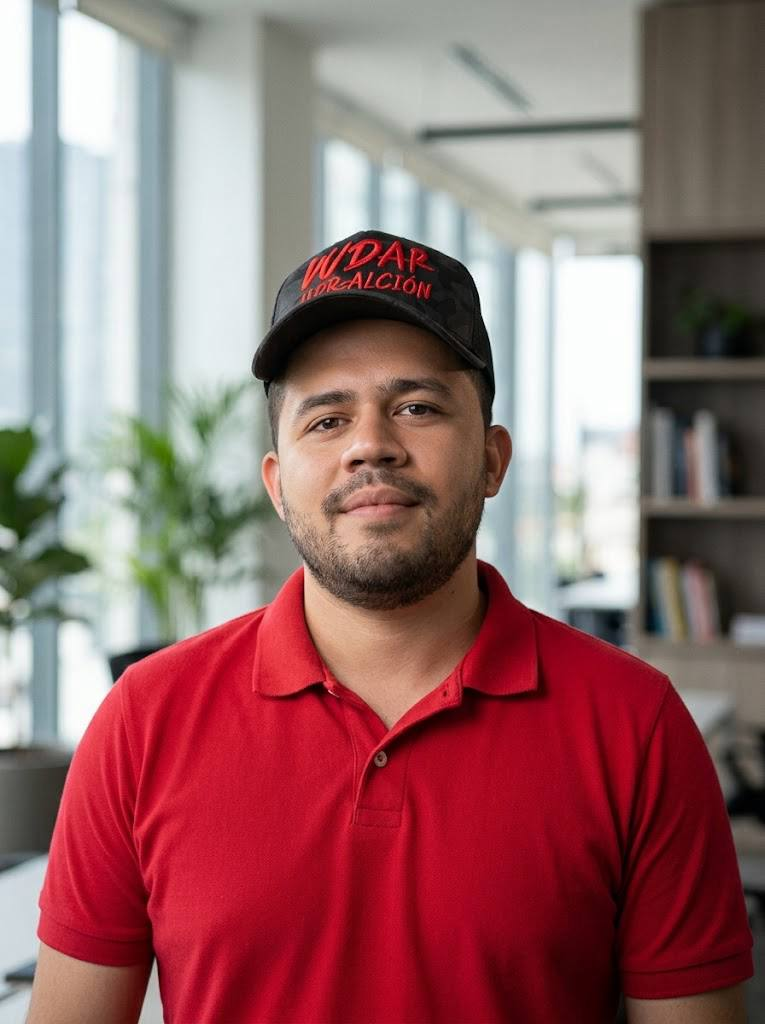
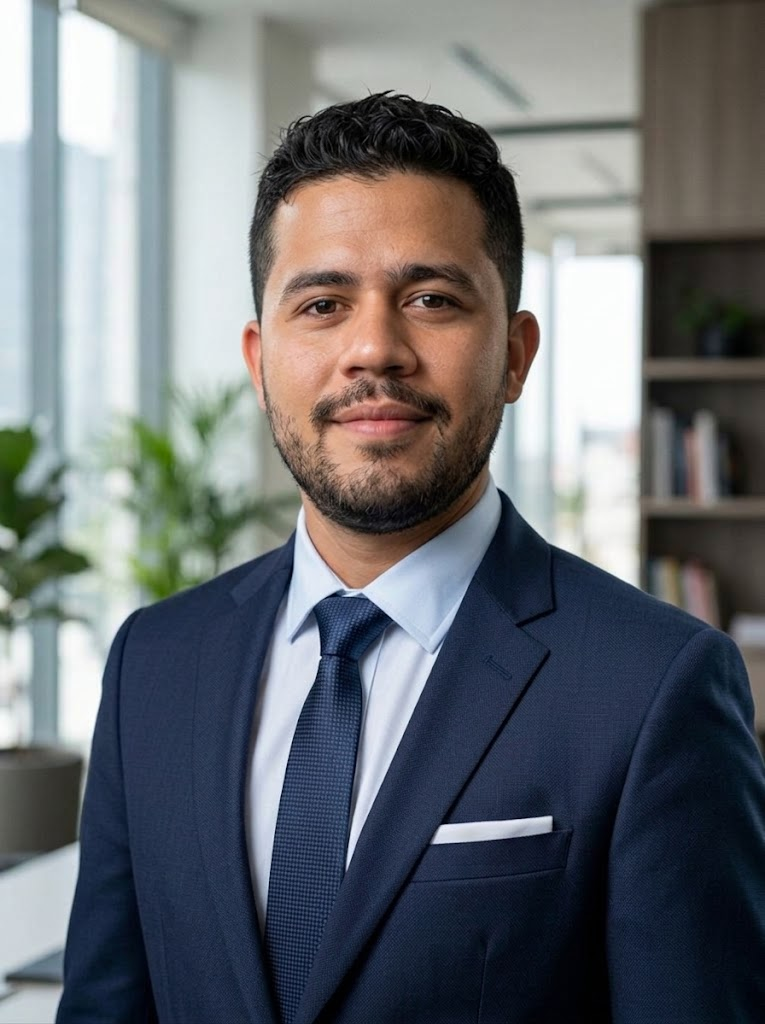
subida

diff --git a/index.html b/index.html
@@ -969,18 +969,18 @@
           <article class="founder-bento-card spotlight-card">
             <div class="founder-media">
               <img
-                src="assets/johnny-granado.png"
-                alt="Johnny Granado · Co-Founder & CEO de La Perla Host"
+                src="assets/galvys-rodriguez.jpeg"
+                alt="Galvys Rodriguez · Co-Founder & CEO de La Perla Host"
                 loading="lazy"
               />
-              <a href="https://www.linkedin.com/in/jhonny-granado-mago-2601a42a4/" target="_blank" rel="noopener noreferrer" class="founder-linkedin" aria-label="LinkedIn Johnny Granado">
+              <a href="https://www.linkedin.com/in/galvys-rodr%C3%ADguez/" target="_blank" rel="noopener noreferrer" class="founder-linkedin" aria-label="LinkedIn Johnny Granado">
                 <i data-lucide="linkedin" class="lucide-xs"></i>
                 <span>LinkedIn</span>
               </a>
             </div>
             <div class="founder-info">
               <span class="founder-tag">01 / DIRECCIÓN GENERAL</span>
-              <h4>Johnny Granado</h4>
+              <h4>Galvys Rodriguez</h4>
               <p class="founder-role-sub">Co-Founder &amp; CEO</p>
               <blockquote>“Elevando la competitividad del turismo regional a través de datos y tecnología accesible.”</blockquote>
             </div>
@@ -990,8 +990,8 @@
           <article class="founder-bento-card spotlight-card">
             <div class="founder-media">
               <img
-                src="assets/ralphy-serra.png?v=2"
-                alt="Ralphy Serra · Co-Founder & CTO / Chief Architect de La Perla Host"
+                src="assets/ralph-serra.jpg?v=2"
+                alt="Ralph Serra · Co-Founder & CTO / Chief Architect de La Perla Host"
                 loading="lazy"
               />
               <a href="https://www.linkedin.com/in/ralph-serra/" target="_blank" rel="noopener noreferrer" class="founder-linkedin" aria-label="LinkedIn Ralphy Serra">
@@ -1011,18 +1011,18 @@
           <article class="founder-bento-card spotlight-card">
             <div class="founder-media">
               <img
-                src="assets/bimbo-salazar.png"
-                alt="Bimbo Salazar · Co-Founder & CCO de La Perla Host"
+                src="assets/amador-hernandez.jpeg"
+                alt="Amador Hernandez · Co-Founder & CCO de La Perla Host"
                 loading="lazy"
               />
-              <a href="https://www.linkedin.com" target="_blank" rel="noopener noreferrer" class="founder-linkedin" aria-label="LinkedIn Bimbo Salazar">
+              <a href="https://www.linkedin.com/in/amador-hernandez/" target="_blank" rel="noopener noreferrer" class="founder-linkedin" aria-label="LinkedIn Bimbo Salazar">
                 <i data-lucide="linkedin" class="lucide-xs"></i>
                 <span>LinkedIn</span>
               </a>
             </div>
             <div class="founder-info">
               <span class="founder-tag">03 / ESTRATEGIA COMERCIAL</span>
-              <h4>Bimbo Salazar</h4>
+              <h4>Amador Hernandez</h4>
               <p class="founder-role-sub">Co-Founder &amp; CCO</p>
               <blockquote>“Convirtiendo el historial y la lealtad de tus huéspedes en un motor constante de reservas directas.”</blockquote>
             </div>
@@ -1036,7 +1036,7 @@
                 alt="Gabriel Lunar · Co-Founder & Head of AI & Customer Success de La Perla Host"
                 loading="lazy"
               />
-              <a href="https://www.linkedin.com" target="_blank" rel="noopener noreferrer" class="founder-linkedin" aria-label="LinkedIn Gabriel Lunar">
+              <a href="https://www.linkedin.com/in/gabriel-enrique-lunar-guerra-66bba52a7/" target="_blank" rel="noopener noreferrer" class="founder-linkedin" aria-label="LinkedIn Gabriel Lunar">
                 <i data-lucide="linkedin" class="lucide-xs"></i>
                 <span>LinkedIn</span>
               </a>
